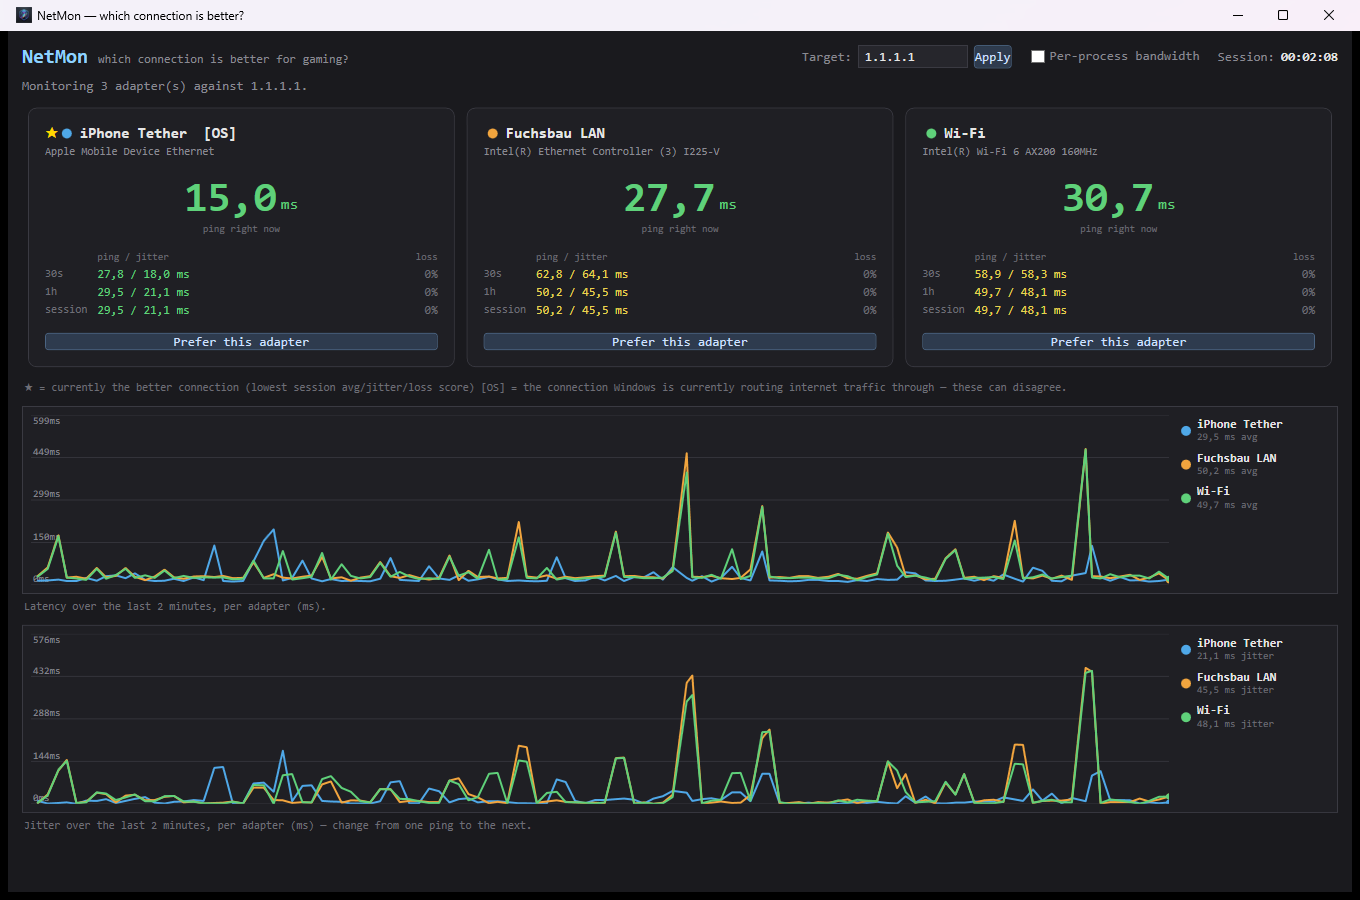
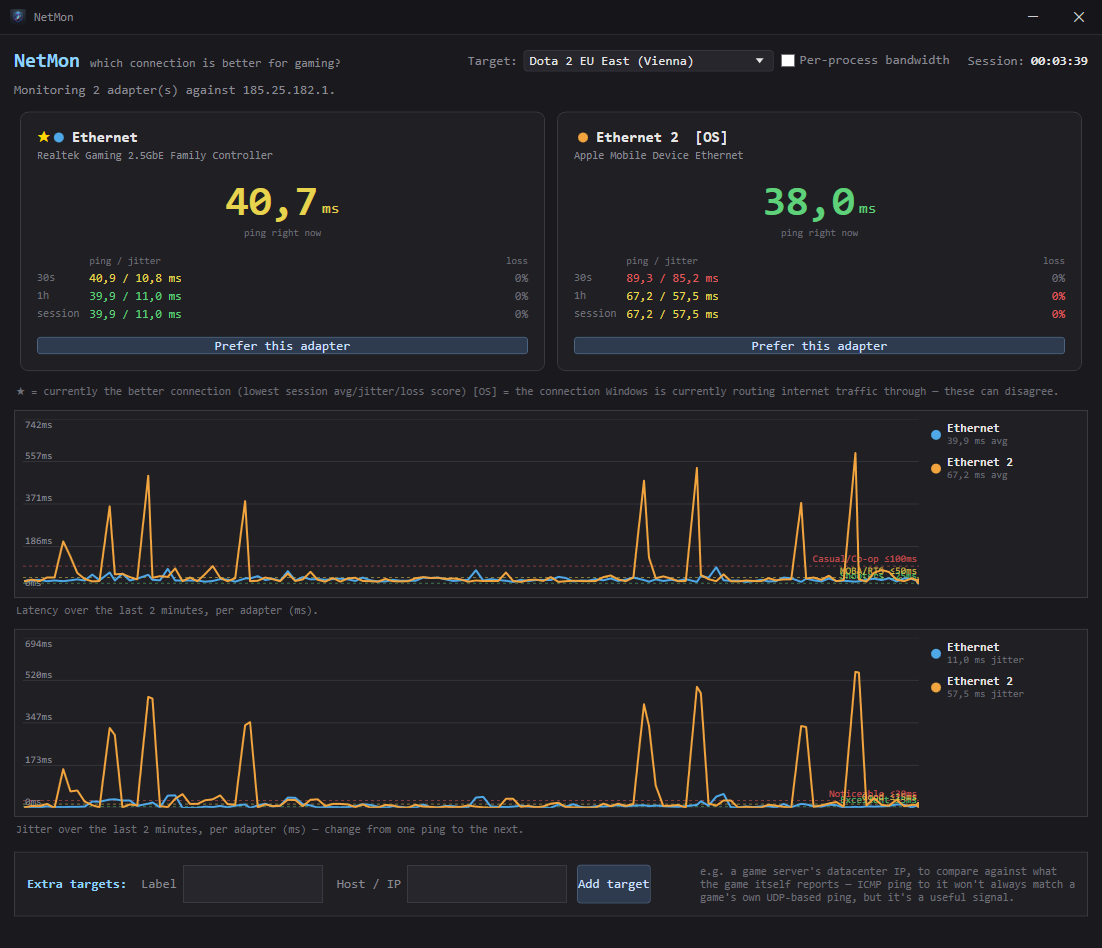
Refresh app screenshot and add Stream Deck plugin screenshot to README

Changed region(s): [[0.0, 0.0, 1.0, 1.0], [0.3085, 0.28, 0.3394, 0.3111]]

diff --git a/README.md b/README.md
@@ -39,7 +39,7 @@ two can disagree, e.g. Windows may default to Ethernet by metric even while
 your hotspot is measurably better, in which case Dota 2/CS2 (and everything
 else) are routing over the worse link without you knowing.
 
-![NetMonGui showing three live connections — Ethernet, Wi-Fi, and an iPhone hotspot — with latency/jitter graphs and per-process bandwidth](docs/screenshot.png)
+![NetMonGui comparing two connections — a wired Ethernet adapter and an iPhone tethered over Ethernet — against a Dota 2 EU East server, with latency/jitter graphs below](docs/screenshot.png)
 
 **Admin rights**: NetMon runs unprivileged by default and never asks for
 elevation on its own. It only prompts for admin (a UAC dialog) when *you*
@@ -236,6 +236,8 @@ small loopback-only JSON API the app exposes automatically
 — no configuration needed on the app side, just have it running. See
 [streamdeck-plugin/README.md](streamdeck-plugin/README.md) for building and
 installing it.
+
+![Stream Deck showing four NetMon keys — ping and jitter graphs for Ethernet and an iPhone hotspot, each with a live value and trend sparkline](docs/streamdeck.png)
 
 ## Console version (netmon.ps1)
 
